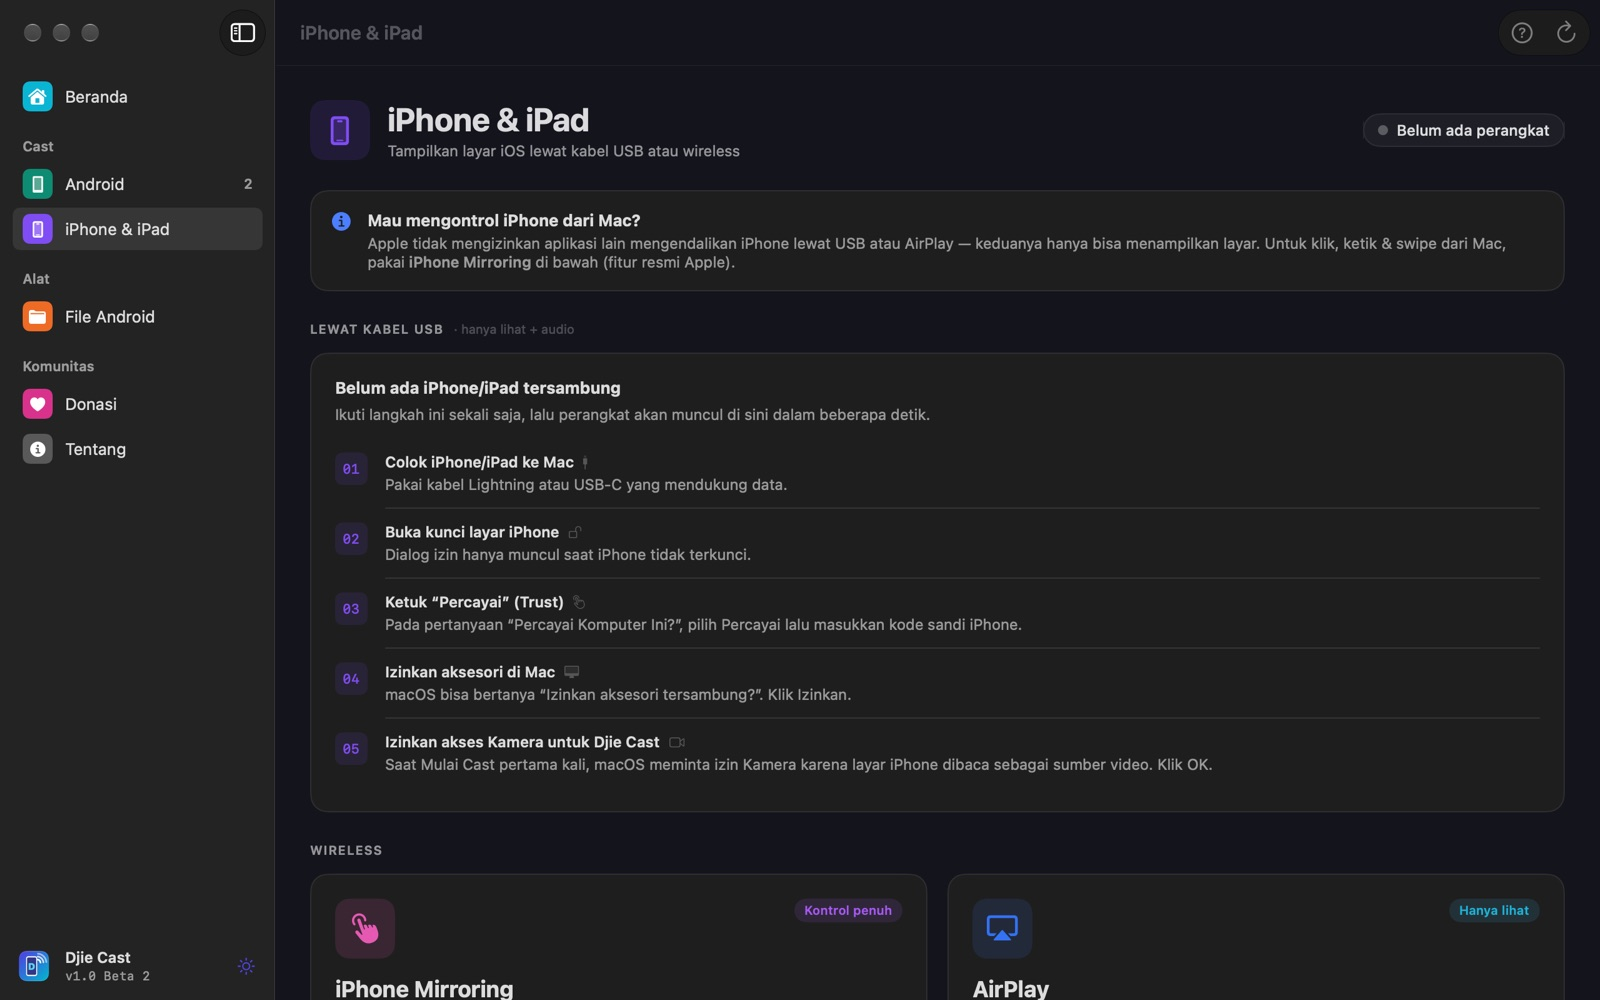
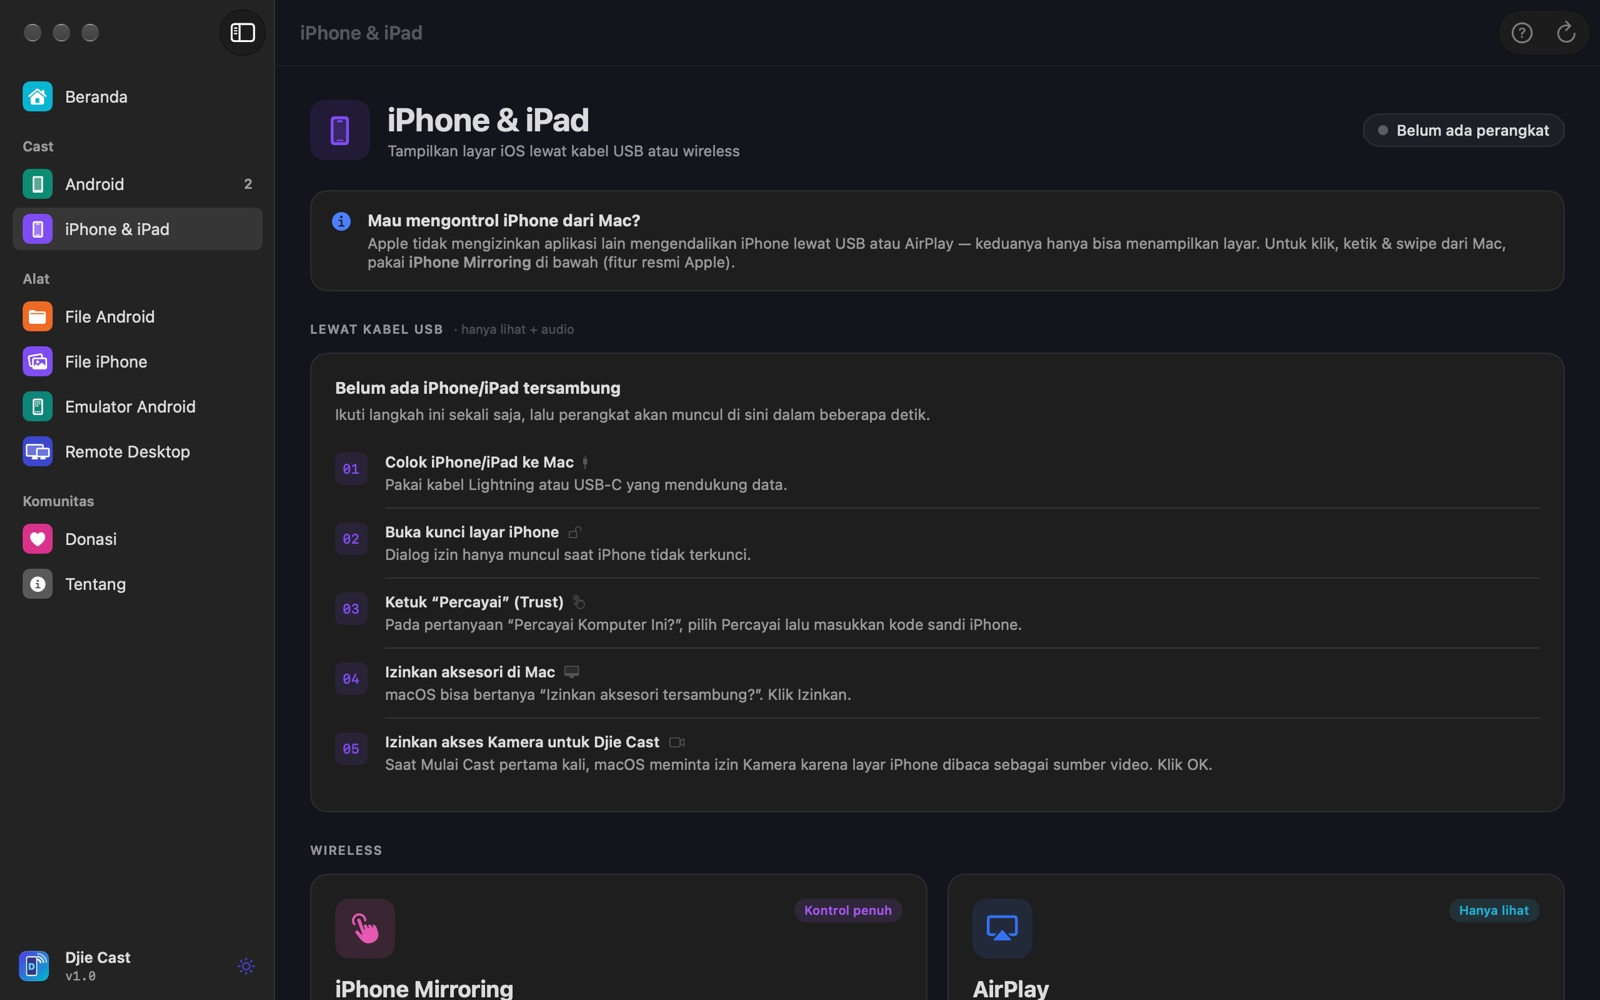
Landing page: fitur lengkap Djie Cast 1.0
- Bagian baru Emulator Android dan Remote Desktop dengan screenshot asli
- File iPhone di bagian iPhone, daftar 'Semua fitur' per kategori
- FAQ: Remote Desktop ke Windows, emulator tanpa Android Studio
- Screenshot diperbarui ke versi 1.0 (terang & gelap)
- Mode demo tidak lagi menyalakan Tailscale otomatis

Changed region(s): [[0.0, 0.341, 0.125, 0.465], [0.0, 0.496, 0.0625, 0.62], [0.0625, 0.961, 0.0938, 0.992]]

diff --git a/docs/index.html b/docs/index.html
@@ -388,6 +388,17 @@ footer a { text-decoration: none; } footer a:hover { color: var(--ink); }
 .tool p { color: var(--ink-2); font-size: 15.5px; }
 @media (max-width: 920px) { .tools { grid-template-columns: repeat(2, minmax(0, 1fr)); } .tool:nth-child(3) { border-left: 0; padding-left: 0; } .tool:nth-child(n+3) { border-top: 1px solid var(--line); } }
 @media (max-width: 520px) { .tools { grid-template-columns: minmax(0, 1fr); } .tool + .tool { border-left: 0; padding-left: 0; border-top: 1px solid var(--line); } }
+
+/* All features */
+.allfeat { display: grid; grid-template-columns: repeat(5, minmax(0, 1fr)); gap: 0; border-top: 2px solid var(--ink); }
+.allfeat > div { padding: 22px 20px 0 0; }
+.allfeat > div + div { padding-left: 20px; border-left: 1px solid var(--line); }
+.allfeat h3 { font-size: 18px; margin-bottom: 12px; }
+.allfeat ul { list-style: none; display: grid; gap: 9px; }
+.allfeat li { color: var(--ink-2); font-size: 15px; padding-left: 18px; position: relative; }
+.allfeat li::before { content: ""; position: absolute; left: 0; top: .62em; width: 7px; height: 7px; border-radius: 2px; background: var(--signal); }
+@media (max-width: 1100px) { .allfeat { grid-template-columns: repeat(3, minmax(0, 1fr)); row-gap: 26px; } .allfeat > div:nth-child(4) { border-left: 0; padding-left: 0; } }
+@media (max-width: 640px) { .allfeat { grid-template-columns: minmax(0, 1fr); } .allfeat > div + div { border-left: 0; padding-left: 0; border-top: 1px solid var(--line); padding-top: 18px; } }
 </style>
 </head>
 <body>
@@ -419,6 +430,8 @@ footer a { text-decoration: none; } footer a:hover { color: var(--ink); }
     <nav class="nav-links" aria-label="Menu">
       <a href="#android">Android</a>
       <a href="#iphone">iPhone</a>
+      <a href="#emulator">Emulator</a>
+      <a href="#remote">Remote</a>
       <a href="#live" data-i18n="nav.live">Live</a>
       <a href="#install" data-i18n="nav.install">Install</a>
       <a href="#faq">FAQ</a>
@@ -598,36 +611,112 @@ footer a { text-decoration: none; } footer a:hover { color: var(--ink); }
           </picture>
         </figure>
       </div>
+
+      <div class="row flip">
+        <div class="copy-col">
+          <h3 data-i18n="iosf.h">Galeri iPhone, langsung di Mac</h3>
+          <p data-i18n="iosf.p">Colok kabel, buka kunci, dan semua foto &amp; video iPhone/iPad tampil sebagai galeri lengkap dengan thumbnail.</p>
+          <ul class="points">
+            <li><b data-i18n="iosf.k1">Filter</b><span data-i18n="iosf.v1">Semua, Foto, atau Video, diurutkan dari yang terbaru.</span></li>
+            <li><b data-i18n="iosf.k2">Unduh</b><span data-i18n="iosf.v2">Pilih beberapa atau unduh semua ke Downloads/Djie Cast/iPhone.</span></li>
+            <li><b data-i18n="iosf.k3">Buka cepat</b><span data-i18n="iosf.v3">Klik dua kali untuk membuka foto atau video di Mac.</span></li>
+          </ul>
+        </div>
+        <figure class="shot">
+          <picture>
+            <source srcset="assets/iosfiles-dark.jpg" media="(prefers-color-scheme: dark)">
+            <img src="assets/iosfiles-light.jpg" alt="Galeri foto dan video iPhone di Djie Cast" data-i18n-alt="alt.iosfiles" width="1600" height="1000" loading="lazy">
+          </picture>
+        </figure>
+      </div>
     </div>
   </section>
 
-  <section id="lainnya">
+  <section id="emulator">
     <div class="wrap">
       <div class="head">
-        <span class="label" data-i18n="more.label">Lebih dari sekadar cast</span>
-        <h2 data-i18n="more.title">Satu app untuk HP, emulator, dan Mac lain.</h2>
+        <span class="label"><i class="dot" style="background:#0d8a77;box-shadow:0 0 0 4px rgba(13,138,119,.18)"></i><span data-i18n="emu.label">Emulator Android</span></span>
+        <h2 data-i18n="emu.title">Emulator Android yang ngebut, tanpa Android Studio.</h2>
+        <p data-i18n="emu.lead">Pilih sendiri versi Android yang mau diunduh, buat emulator dalam satu klik, lalu jalankan dengan GPU Mac dan akselerasi hardware.</p>
       </div>
-      <div class="tools">
-        <div class="tool">
-          <span class="ico"><svg viewBox="0 0 24 24" fill="none" stroke="currentColor" stroke-width="2" stroke-linecap="round" stroke-linejoin="round"><rect x="3" y="3" width="18" height="18" rx="3"/><circle cx="9" cy="9" r="2"/><path d="m21 15-5-5L5 21"/></svg></span>
-          <h3 data-i18n="more.t1">File iPhone</h3>
-          <p data-i18n="more.p1">Buka galeri foto &amp; video iPhone/iPad lewat kabel, lalu unduh ke Mac satu per satu atau sekaligus.</p>
+      <div class="row">
+        <div class="copy-col">
+          <ul class="points">
+            <li><b data-i18n="emu.k1">Bahan pilihanmu</b><span data-i18n="emu.v1">Mesin emulator dan system image Android 13–17 (Google Play atau Google APIs), langsung dari server resmi Google.</span></li>
+            <li><b data-i18n="emu.k2">Aman</b><span data-i18n="emu.v2">Setiap unduhan dicek checksum-nya dan lisensi Google ditampilkan sebelum diunduh.</span></li>
+            <li><b data-i18n="emu.k3">Profil</b><span data-i18n="emu.v3">Ponsel, ponsel kecil, atau tablet dengan RAM, core, dan penyimpanan sesuai kebutuhan.</span></li>
+            <li><b data-i18n="emu.k4">Cepat</b><span data-i18n="emu.v4">Boot ke Android dalam hitungan detik, dengan Quick Boot dan tanpa animasi boot.</span></li>
+          </ul>
+          <div class="term" style="margin-top:6px">
+            <div class="term-bar"><i></i><i></i><i></i><em data-i18n="emu.term">Perintah yang dijalankan Djie Cast</em></div>
+            <pre><span class="p">$</span> emulator -avd Pixel_Djie -gpu host -accel on -cores 4 -no-boot-anim -qemu -m 4096</pre>
+          </div>
         </div>
-        <div class="tool">
-          <span class="ico"><svg viewBox="0 0 24 24" fill="none" stroke="currentColor" stroke-width="2" stroke-linecap="round" stroke-linejoin="round"><rect x="6" y="2" width="12" height="20" rx="2"/><path d="M10 6h4M9 18h6"/></svg></span>
-          <h3 data-i18n="more.t2">Emulator Android</h3>
-          <p data-i18n="more.p2">Pilih versi Android yang mau diunduh, buat emulator, lalu jalankan dengan GPU Mac dan akselerasi hardware.</p>
+        <figure class="shot">
+          <picture>
+            <source srcset="assets/emulator-dark.jpg" media="(prefers-color-scheme: dark)">
+            <img src="assets/emulator-light.jpg" alt="Halaman Emulator Android di Djie Cast" data-i18n-alt="alt.emulator" width="1600" height="1000" loading="lazy">
+          </picture>
+        </figure>
+      </div>
+    </div>
+  </section>
+
+  <section id="remote">
+    <div class="wrap">
+      <div class="head">
+        <span class="label"><i class="dot" style="background:var(--signal);box-shadow:0 0 0 4px color-mix(in srgb,var(--signal) 18%,transparent)"></i>Remote Desktop</span>
+        <h2 data-i18n="rem.title">Kendalikan Mac lain, dari mana saja.</h2>
+        <p data-i18n="rem.lead">Seperti AnyDesk, tapi gratis dan tanpa server pihak ketiga. Bagikan kode 6 angka, dan Mac lain bisa melihat serta mengontrol layar Mac ini.</p>
+      </div>
+      <div class="row flip">
+        <div class="copy-col">
+          <ul class="points">
+            <li><b data-i18n="rem.k1">Kode akses</b><span data-i18n="rem.v1">6 angka sekali pakai, bisa diganti kapan saja. Kode salah langsung ditolak.</span></li>
+            <li><b data-i18n="rem.k2">Terenkripsi</b><span data-i18n="rem.v2">Koneksi TLS dengan kunci dari kode akses; video H.264 hardware yang tajam.</span></li>
+            <li><b data-i18n="rem.k3">Kontrol penuh</b><span data-i18n="rem.v3">Mouse, klik kanan, scroll, keyboard, dan shortcut ⌘ dikirim ke Mac tujuan.</span></li>
+            <li><b data-i18n="rem.k4">Lewat internet</b><span data-i18n="rem.v4">Tailscale sudah tertanam. Masuk akun gratis, lalu Mac di jaringan mana pun bisa terhubung.</span></li>
+            <li><b data-i18n="rem.k5">Tetap aman</b><span data-i18n="rem.v5">Mac yang dikontrol menampilkan panel merah dengan tombol Putuskan, dan izin macOS terpantau.</span></li>
+          </ul>
         </div>
-        <div class="tool">
-          <span class="ico"><svg viewBox="0 0 24 24" fill="none" stroke="currentColor" stroke-width="2" stroke-linecap="round" stroke-linejoin="round"><rect x="2" y="4" width="13" height="10" rx="1.5"/><rect x="9" y="9" width="13" height="10" rx="1.5"/></svg></span>
-          <h3 data-i18n="more.t3">Remote Desktop</h3>
-          <p data-i18n="more.p3">Kendalikan Mac lain dengan kode akses 6 angka. Koneksi terenkripsi, bisa diputus kapan saja dari Mac tujuan.</p>
-        </div>
-        <div class="tool">
-          <span class="ico"><svg viewBox="0 0 24 24" fill="none" stroke="currentColor" stroke-width="2" stroke-linecap="round" stroke-linejoin="round"><circle cx="12" cy="12" r="9"/><path d="M3 12h18M12 3a14 14 0 0 1 0 18M12 3a14 14 0 0 0 0 18"/></svg></span>
-          <h3 data-i18n="more.t4">Lewat internet</h3>
-          <p data-i18n="more.p4">Tailscale sudah ada di dalam app. Masuk dengan akun gratis, lalu remote Mac dari jaringan mana pun.</p>
-        </div>
+        <figure class="shot">
+          <picture>
+            <source srcset="assets/remote-dark.jpg" media="(prefers-color-scheme: dark)">
+            <img src="assets/remote-light.jpg" alt="Halaman Remote Desktop di Djie Cast" data-i18n-alt="alt.remote" width="1600" height="1000" loading="lazy">
+          </picture>
+        </figure>
+      </div>
+    </div>
+  </section>
+
+  <section id="semua">
+    <div class="wrap">
+      <div class="head">
+        <span class="label" data-i18n="all.label">Semua fitur</span>
+        <h2 data-i18n="all.title">Semua yang ada di Djie Cast 1.0.</h2>
+      </div>
+      <div class="allfeat">
+        <div><h3>Android</h3><ul>
+          <li data-i18n="all.a1">Mirror &amp; kontrol lewat USB atau Wi-Fi</li><li data-i18n="all.a2">Hingga 120 fps, audio ikut terdengar</li>
+          <li data-i18n="all.a3">Back, Home, Recent, volume, power</li><li data-i18n="all.a4">Screenshot &amp; rekam layar</li>
+          <li data-i18n="all.a5">Rotasi portrait / landscape</li><li data-i18n="all.a6">File manager: unduh, unggah, ganti nama, hapus</li>
+          <li data-i18n="all.a7">Panduan USB Debugging bawaan</li></ul></div>
+        <div><h3>iPhone &amp; iPad</h3><ul>
+          <li data-i18n="all.i1">Layar + audio lewat kabel USB</li><li data-i18n="all.i2">iPhone Mirroring untuk kontrol penuh</li>
+          <li data-i18n="all.i3">AirPlay wireless</li><li data-i18n="all.i4">Jendela ikut berputar, bisa diputar manual</li>
+          <li data-i18n="all.i5">Galeri foto &amp; video, unduh ke Mac</li><li data-i18n="all.i6">Panduan “Percayai Komputer Ini”</li></ul></div>
+        <div><h3 data-i18n="all.eh">Emulator</h3><ul>
+          <li data-i18n="all.e1">Unduh versi Android pilihanmu</li><li data-i18n="all.e2">Checksum &amp; lisensi resmi Google</li>
+          <li data-i18n="all.e3">Ponsel, ponsel kecil, tablet</li><li data-i18n="all.e4">GPU Mac + akselerasi hardware</li>
+          <li data-i18n="all.e5">Bisa langsung di-cast di Djie Cast</li></ul></div>
+        <div><h3>Remote Desktop</h3><ul>
+          <li data-i18n="all.r1">Mac ke Mac dengan kode 6 angka</li><li data-i18n="all.r2">Terenkripsi TLS</li>
+          <li data-i18n="all.r3">Deteksi otomatis di jaringan yang sama</li><li data-i18n="all.r4">Tailscale bawaan untuk internet</li>
+          <li data-i18n="all.r5">Satu pengontrol, bisa diputus kapan saja</li></ul></div>
+        <div><h3 data-i18n="all.oh">Lainnya</h3><ul>
+          <li data-i18n="all.o1">Mode terang / gelap / ikuti sistem</li><li data-i18n="all.o2">Siap untuk OBS &amp; live streaming</li>
+          <li data-i18n="all.o3">Universal: Apple Silicon &amp; Intel</li><li data-i18n="all.o4">100% lokal, tanpa akun &amp; iklan</li>
+          <li data-i18n="all.o5">Open source, lisensi MIT</li></ul></div>
       </div>
     </div>
   </section>
@@ -693,6 +782,10 @@ footer a { text-decoration: none; } footer a:hover { color: var(--ink); }
           <p data-i18n="faq.a4">App belum dinotarisasi Apple karena itu butuh akun developer berbayar. Kode sumbernya terbuka di GitHub untuk diperiksa siapa saja. Klik kanan → Open cukup sekali.</p></details>
         <details><summary data-i18n="faq.q5">Ada data yang dikirim ke internet?</summary>
           <p data-i18n="faq.a5">Tidak. Video dan file hanya berpindah antara Mac dan HP-mu. Tidak ada akun, analitik, atau server.</p></details>
+        <details><summary data-i18n="faq.q7">Remote Desktop bisa ke Windows?</summary>
+          <p data-i18n="faq.a7">Untuk saat ini Remote Desktop bekerja antar Mac. Djie Cast adalah aplikasi macOS, jadi kedua komputer perlu memasang Djie Cast.</p></details>
+        <details><summary data-i18n="faq.q8">Apakah emulator butuh Android Studio?</summary>
+          <p data-i18n="faq.a8">Tidak. Djie Cast mengunduh mesin emulator dan versi Android pilihanmu langsung dari server Google. Kalau Android Studio sudah terpasang, bahan yang ada dipakai bersama.</p></details>
         <details><summary data-i18n="faq.q6">Bisa untuk main game?</summary>
           <p data-i18n="faq.a6">Bisa. Pakai kabel USB, pilih preset Maksimal, lalu paksa layar ke landscape dari tombol rotasi.</p></details>
       </div>
@@ -771,6 +864,39 @@ footer a { text-decoration: none; } footer a:hover { color: var(--ink); }
   // ---------- Language: Indonesian is written in the HTML; English lives here. ----------
   const EN = {
     "nav.install": "Install", "nav.donate": "Donate",
+    "iosf.h": "Your iPhone gallery, right on your Mac", "iosf.p": "Plug in, unlock, and every photo & video on your iPhone/iPad appears as a gallery with thumbnails.",
+    "iosf.k1": "Filter", "iosf.v1": "All, Photos, or Videos, newest first.",
+    "iosf.k2": "Download", "iosf.v2": "Pick a few or download everything to Downloads/Djie Cast/iPhone.",
+    "iosf.k3": "Quick open", "iosf.v3": "Double-click to open a photo or video on your Mac.",
+    "emu.label": "Android emulator", "emu.title": "A fast Android emulator, no Android Studio needed.",
+    "emu.lead": "Choose which Android versions to download, create an emulator in one click, and run it on your Mac's GPU with hardware acceleration.",
+    "emu.k1": "Your pick", "emu.v1": "The emulator engine and Android 13–17 system images (Google Play or Google APIs), straight from Google's official servers.",
+    "emu.k2": "Safe", "emu.v2": "Every download is checksum-verified and Google's license is shown before downloading.",
+    "emu.k3": "Profiles", "emu.v3": "Phone, small phone, or tablet with the RAM, cores, and storage you need.",
+    "emu.k4": "Fast", "emu.v4": "Boots into Android in seconds, with Quick Boot and no boot animation.",
+    "emu.term": "The command Djie Cast runs",
+    "rem.title": "Control another Mac, from anywhere.", "rem.lead": "Like AnyDesk, but free and with no third-party server. Share a 6-digit code and another Mac can see and control this Mac's screen.",
+    "rem.k1": "Access code", "rem.v1": "A one-time 6-digit code you can change any time. Wrong codes are rejected instantly.",
+    "rem.k2": "Encrypted", "rem.v2": "TLS keyed from the access code; sharp hardware H.264 video.",
+    "rem.k3": "Full control", "rem.v3": "Mouse, right-click, scroll, keyboard, and ⌘ shortcuts are sent to the other Mac.",
+    "rem.k4": "Over the internet", "rem.v4": "Tailscale is built in. Sign in with a free account and reach Macs on any network.",
+    "rem.k5": "Stays safe", "rem.v5": "The controlled Mac shows a red panel with a Disconnect button, and macOS permissions are tracked live.",
+    "all.label": "All features", "all.title": "Everything in Djie Cast 1.0.",
+    "all.a1": "Mirror & control over USB or Wi-Fi", "all.a2": "Up to 120 fps, with audio", "all.a3": "Back, Home, Recent, volume, power",
+    "all.a4": "Screenshots & screen recording", "all.a5": "Portrait / landscape rotation", "all.a6": "File manager: download, upload, rename, delete",
+    "all.a7": "Built-in USB Debugging guide",
+    "all.i1": "Screen + audio over USB", "all.i2": "iPhone Mirroring for full control", "all.i3": "Wireless AirPlay",
+    "all.i4": "Window follows rotation, or rotate manually", "all.i5": "Photo & video gallery, download to Mac", "all.i6": "“Trust This Computer” guide",
+    "all.eh": "Emulator", "all.e1": "Download the Android versions you pick", "all.e2": "Google checksums & licenses", "all.e3": "Phone, small phone, tablet",
+    "all.e4": "Mac GPU + hardware acceleration", "all.e5": "Cast it in Djie Cast right away",
+    "all.r1": "Mac to Mac with a 6-digit code", "all.r2": "TLS encrypted", "all.r3": "Auto-discovery on the same network",
+    "all.r4": "Built-in Tailscale for the internet", "all.r5": "One controller, disconnect any time",
+    "all.oh": "More", "all.o1": "Light / dark / system appearance", "all.o2": "Ready for OBS & live streaming", "all.o3": "Universal: Apple Silicon & Intel",
+    "all.o4": "100% local, no account, no ads", "all.o5": "Open source, MIT license",
+    "faq.q7": "Does Remote Desktop work with Windows?", "faq.a7": "For now Remote Desktop works between Macs. Djie Cast is a macOS app, so both computers need Djie Cast installed.",
+    "faq.q8": "Does the emulator need Android Studio?", "faq.a8": "No. Djie Cast downloads the emulator engine and the Android versions you choose straight from Google. If Android Studio is installed, existing components are shared.",
+    "alt.iosfiles": "iPhone photo and video gallery in Djie Cast", "alt.emulator": "Djie Cast Android emulator page", "alt.remote": "Djie Cast Remote Desktop page",
+
     "more.label": "More than casting", "more.title": "One app for your phone, emulators, and other Macs.",
     "more.t1": "iPhone files", "more.p1": "Open your iPhone/iPad photo & video library over a cable and download items to your Mac, one by one or all at once.",
     "more.t2": "Android emulator", "more.p2": "Pick the Android versions you want to download, create emulators, and run them on your Mac's GPU with hardware acceleration.",

diff --git a/Sources/DjieCastApp.swift b/Sources/DjieCastApp.swift
@@ -461,7 +461,7 @@ final class AppDelegate: NSObject, NSApplicationDelegate {
         MainActor.assumeIsolated {
             RemoteSelfTest.runIfRequested(); EmulatorSelfTest.runIfRequested(); RemoteSelfTest.runTailnetIfRequested()
             let env = ProcessInfo.processInfo.environment
-            if env["DJIE_REMOTE_SELFTEST"] == nil && env["DJIE_EMU_SELFTEST"] == nil && env["DJIE_TAILNET_SELFTEST"] == nil {
+            if env["DJIE_REMOTE_SELFTEST"] == nil && env["DJIE_EMU_SELFTEST"] == nil && env["DJIE_TAILNET_SELFTEST"] == nil && env["DJIE_DEMO"] == nil {
                 TailnetModel.shared.autoStart()
             }
         }
